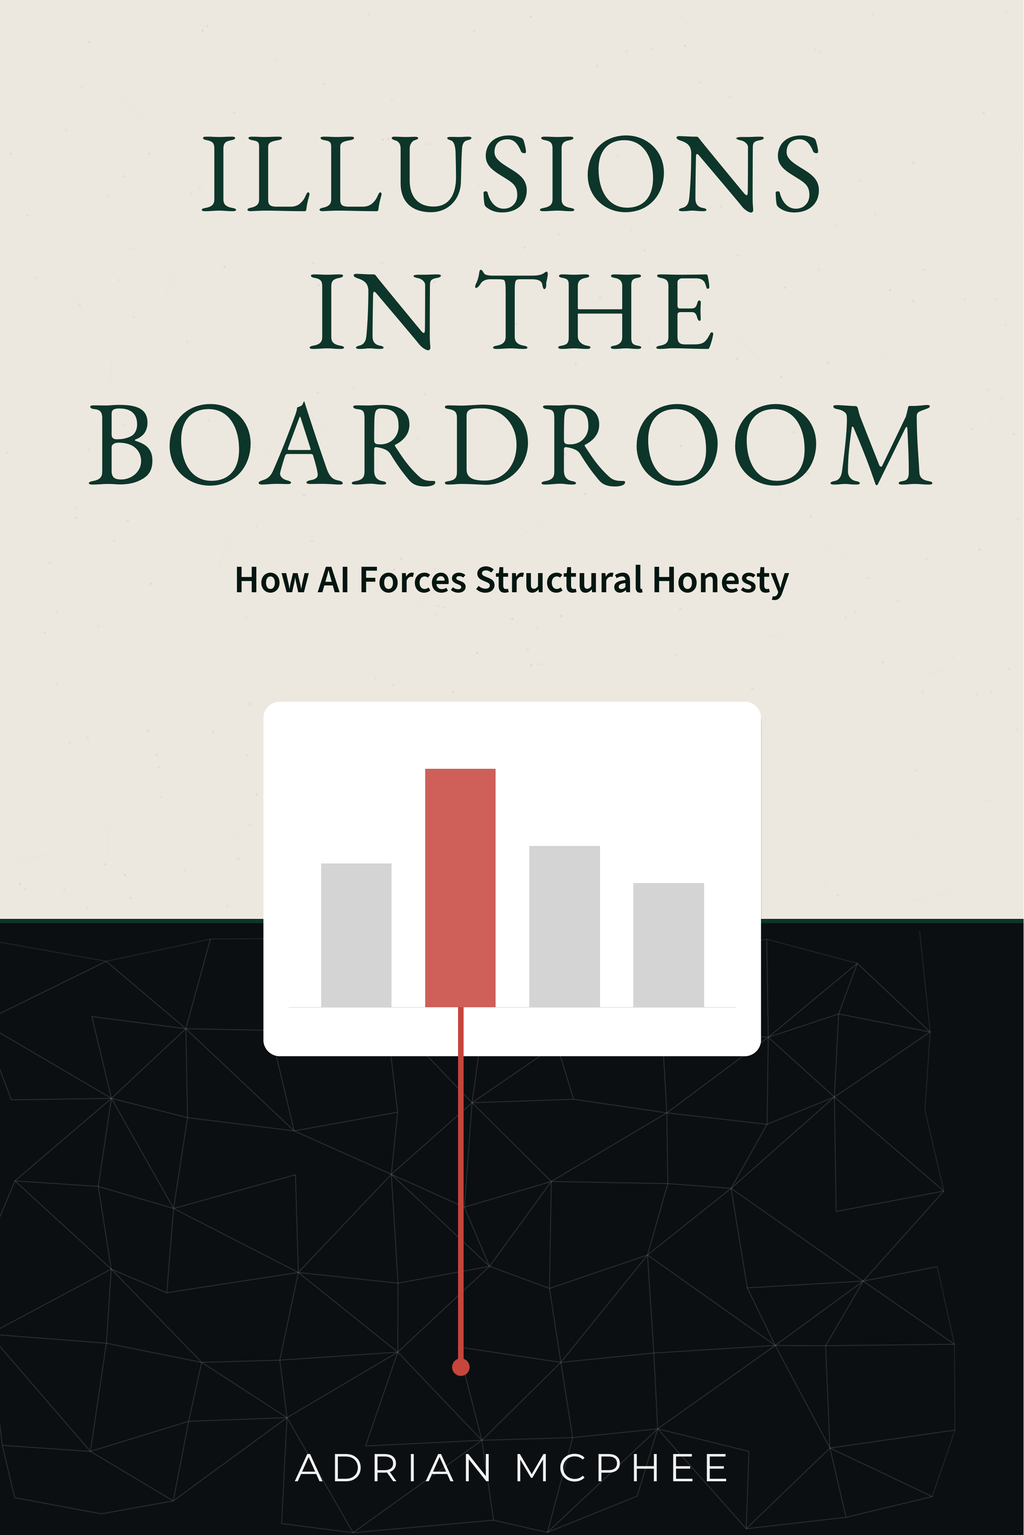
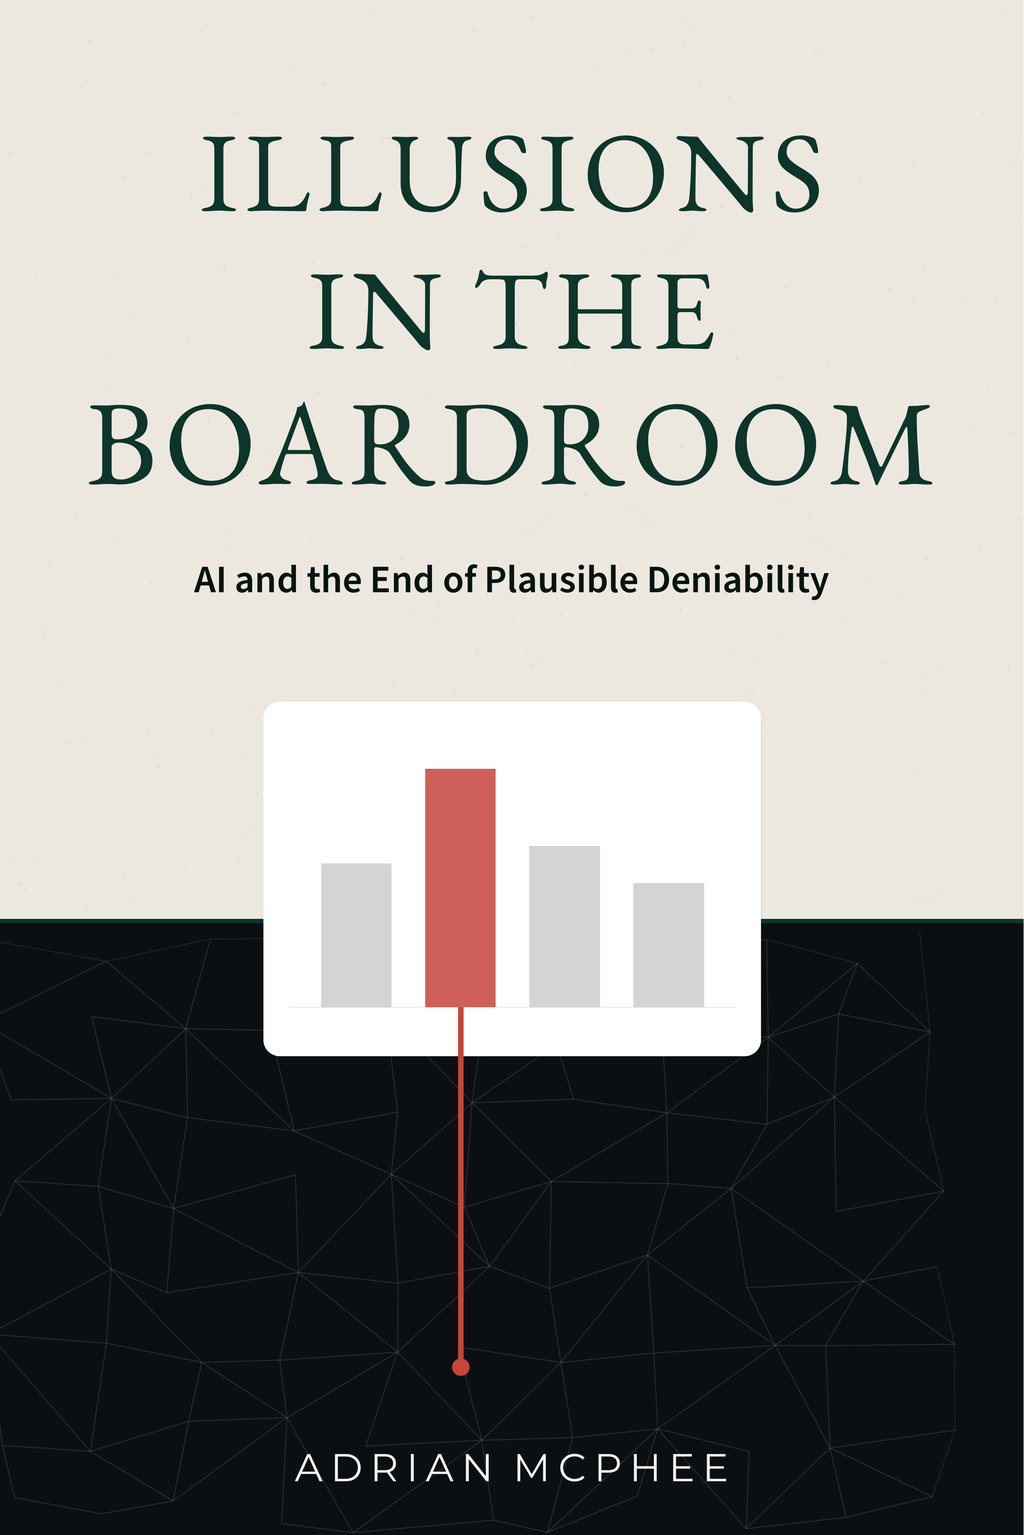
v1.6.11 — 2026-06-01 10:15

Changed region(s): [[0.1875, 0.3674, 0.8125, 0.398]]

diff --git a/illusions-in-the-boardroom/preview.html b/illusions-in-the-boardroom/preview.html
@@ -6,7 +6,7 @@
   <title>Illusions in the Boardroom by Adrian McPhee — Preview</title>
   <meta name="description" content="Browse all chapters of Illusions in the Boardroom. Why boards cannot use AI without structural honesty, and what governance must change. Read free online.">
   <meta name="author" content="Adrian McPhee">
-  <meta name="book-version" content="1.6.10">
+  <meta name="book-version" content="1.6.11">
   <link rel="canonical" href="https://simpleisadvanced.com/illusions-in-the-boardroom/preview.html">
   <link rel="icon" href="/favicon-32x32.png" sizes="32x32" type="image/png">
   <link rel="icon" href="/favicon-192x192.png" sizes="192x192" type="image/png">
@@ -28,7 +28,7 @@
     "@context": "https://schema.org",
     "@type": "Book",
     "name": "Illusions in the Boardroom",
-    "subtitle": "How AI Forces Structural Honesty",
+    "subtitle": "AI and the End of Plausible Deniability",
     "author": {"@type": "Person", "name": "Adrian McPhee", "url": "https://www.linkedin.com/in/adrianmcphee/"},
     "url": "https://simpleisadvanced.com/illusions-in-the-boardroom/",
     "image": "https://simpleisadvanced.com/illusions-in-the-boardroom/og-image.png"
@@ -72,7 +72,7 @@
 <body>
   <a class="book-link" href="/">&larr; Simple is Advanced</a>
   <h1>Illusions in the Boardroom</h1>
-  <p class="subtitle">How AI Forces Structural Honesty</p>
+  <p class="subtitle">AI and the End of Plausible Deniability</p>
   <p class="audience">For executives, board members, and senior leaders</p>
 
   <ol>

diff --git a/illusions-in-the-boardroom/contents.html b/illusions-in-the-boardroom/contents.html
@@ -6,7 +6,7 @@
   <title>Illusions in the Boardroom — Contents</title>
   <meta name="description" content="Full table of contents for Illusions in the Boardroom by Adrian McPhee. How AI forces structural honesty in software-dependent organisations.">
   <meta name="author" content="Adrian McPhee">
-  <meta name="book-version" content="1.6.10">
+  <meta name="book-version" content="1.6.11">
   <link rel="canonical" href="https://simpleisadvanced.com/illusions-in-the-boardroom/contents.html">
   <link rel="icon" href="/favicon-32x32.png" sizes="32x32" type="image/png">
   <link rel="icon" href="/favicon-192x192.png" sizes="192x192" type="image/png">
@@ -28,7 +28,7 @@
     "@context": "https://schema.org",
     "@type": "Book",
     "name": "Illusions in the Boardroom",
-    "subtitle": "How AI Forces Structural Honesty",
+    "subtitle": "AI and the End of Plausible Deniability",
     "author": {"@type": "Person", "name": "Adrian McPhee", "url": "https://www.linkedin.com/in/adrianmcphee/"},
     "url": "https://simpleisadvanced.com/illusions-in-the-boardroom/",
     "image": "https://simpleisadvanced.com/illusions-in-the-boardroom/og-image.png"
@@ -70,7 +70,7 @@
 <body>
   <a class="book-link" href="/">&larr; Simple is Advanced</a>
   <h1>Illusions in the Boardroom</h1>
-  <p class="subtitle">How AI Forces Structural Honesty</p>
+  <p class="subtitle">AI and the End of Plausible Deniability</p>
   <p class="audience">For executives, board members, and senior leaders</p>
 
   <ol>

diff --git a/illusions-in-the-boardroom/chapters/splitting-the-system-without-splitting-the-problem/index.html b/illusions-in-the-boardroom/chapters/splitting-the-system-without-splitting-the-problem/index.html
@@ -6,7 +6,7 @@
   <title>Splitting the System Without Splitting the Problem — Illusions in the Boardroom</title>
   <meta name="description" content="The system was split into independently deployable services, but the business processes were not decomposed into genuinely owned units.">
   <meta name="author" content="Adrian McPhee">
-  <meta name="book-version" content="1.6.10">
+  <meta name="book-version" content="1.6.11">
   <meta name="robots" content="max-snippet:300">
   <link rel="canonical" href="https://simpleisadvanced.com/illusions-in-the-boardroom/chapters/splitting-the-system-without-splitting-the-problem/">
   <link rel="icon" href="/favicon-32x32.png" sizes="32x32" type="image/png">

diff --git a/illusions-in-the-boardroom/chapters/what-to-demand-before-anything-else/index.html b/illusions-in-the-boardroom/chapters/what-to-demand-before-anything-else/index.html
@@ -6,7 +6,7 @@
   <title>What to Demand Before Anything Else — Illusions in the Boardroom</title>
   <meta name="description" content="Six questions a board should ask before any AI investment. Structured as a dramatised interrogation in which an audit committee chair asks each question and...">
   <meta name="author" content="Adrian McPhee">
-  <meta name="book-version" content="1.6.10">
+  <meta name="book-version" content="1.6.11">
   <meta name="robots" content="max-snippet:300">
   <link rel="canonical" href="https://simpleisadvanced.com/illusions-in-the-boardroom/chapters/what-to-demand-before-anything-else/">
   <link rel="icon" href="/favicon-32x32.png" sizes="32x32" type="image/png">

diff --git a/illusions-in-the-boardroom/chapters/the-board-narrative-and-the-system/index.html b/illusions-in-the-boardroom/chapters/the-board-narrative-and-the-system/index.html
@@ -6,7 +6,7 @@
   <title>The Board Narrative and the System — Illusions in the Boardroom</title>
   <meta name="description" content="The board pack presents parallel descriptions of different aspects of the organisation using different measures, none of which connect investment to system...">
   <meta name="author" content="Adrian McPhee">
-  <meta name="book-version" content="1.6.10">
+  <meta name="book-version" content="1.6.11">
   <meta name="robots" content="max-snippet:300">
   <link rel="canonical" href="https://simpleisadvanced.com/illusions-in-the-boardroom/chapters/the-board-narrative-and-the-system/">
   <link rel="icon" href="/favicon-32x32.png" sizes="32x32" type="image/png">

diff --git a/illusions-in-the-boardroom/chapters/the-economics-of-structural-opacity/index.html b/illusions-in-the-boardroom/chapters/the-economics-of-structural-opacity/index.html
@@ -6,7 +6,7 @@
   <title>The Economics of Structural Opacity — Illusions in the Boardroom</title>
   <meta name="description" content="When the financial model cannot see structural investment, a repeating cycle emerges: a platform investment is rejected, its absence produces incidents...">
   <meta name="author" content="Adrian McPhee">
-  <meta name="book-version" content="1.6.10">
+  <meta name="book-version" content="1.6.11">
   <meta name="robots" content="max-snippet:300">
   <link rel="canonical" href="https://simpleisadvanced.com/illusions-in-the-boardroom/chapters/the-economics-of-structural-opacity/">
   <link rel="icon" href="/favicon-32x32.png" sizes="32x32" type="image/png">

diff --git a/illusions-in-the-boardroom/chapters/portfolio-labels-that-do-not-exist-in-code/index.html b/illusions-in-the-boardroom/chapters/portfolio-labels-that-do-not-exist-in-code/index.html
@@ -6,7 +6,7 @@
   <title>Portfolio Labels That Do Not Exist in Code — Illusions in the Boardroom</title>
   <meta name="description" content="“Fake products” carry all the governance artefacts of a real product but have no boundary that corresponds to anything in the system.">
   <meta name="author" content="Adrian McPhee">
-  <meta name="book-version" content="1.6.10">
+  <meta name="book-version" content="1.6.11">
   <meta name="robots" content="max-snippet:300">
   <link rel="canonical" href="https://simpleisadvanced.com/illusions-in-the-boardroom/chapters/portfolio-labels-that-do-not-exist-in-code/">
   <link rel="icon" href="/favicon-32x32.png" sizes="32x32" type="image/png">

diff --git a/illusions-in-the-boardroom/chapters/operational-and-regulatory-exposure/index.html b/illusions-in-the-boardroom/chapters/operational-and-regulatory-exposure/index.html
@@ -6,7 +6,7 @@
   <title>Operational and Regulatory Exposure — Illusions in the Boardroom</title>
   <meta name="description" content="Architectural coupling produces regulatory exposure: a change requiring three days of code takes four months because it propagates across nine teams.">
   <meta name="author" content="Adrian McPhee">
-  <meta name="book-version" content="1.6.10">
+  <meta name="book-version" content="1.6.11">
   <meta name="robots" content="max-snippet:300">
   <link rel="canonical" href="https://simpleisadvanced.com/illusions-in-the-boardroom/chapters/operational-and-regulatory-exposure/">
   <link rel="icon" href="/favicon-32x32.png" sizes="32x32" type="image/png">

diff --git a/illusions-in-the-boardroom/chapters/ai-as-the-unforgiving-reader/index.html b/illusions-in-the-boardroom/chapters/ai-as-the-unforgiving-reader/index.html
@@ -6,7 +6,7 @@
   <title>AI as the Unforgiving Reader — Illusions in the Boardroom</title>
   <meta name="description" content="A CTO commissions an AI reconciliation of strategy documents, architecture models, and code, and receives a calm, precise enumeration of contradictions the...">
   <meta name="author" content="Adrian McPhee">
-  <meta name="book-version" content="1.6.10">
+  <meta name="book-version" content="1.6.11">
   <meta name="robots" content="max-snippet:300">
   <link rel="canonical" href="https://simpleisadvanced.com/illusions-in-the-boardroom/chapters/ai-as-the-unforgiving-reader/">
   <link rel="icon" href="/favicon-32x32.png" sizes="32x32" type="image/png">

diff --git a/illusions-in-the-boardroom/chapters/who-loses-when-clarity-wins/index.html b/illusions-in-the-boardroom/chapters/who-loses-when-clarity-wins/index.html
@@ -6,7 +6,7 @@
   <title>Who Loses When Clarity Wins — Illusions in the Boardroom</title>
   <meta name="description" content="The specific roles whose authority is diminished when structural clarity replaces coordination: programme directors, central data teams, product managers of...">
   <meta name="author" content="Adrian McPhee">
-  <meta name="book-version" content="1.6.10">
+  <meta name="book-version" content="1.6.11">
   <meta name="robots" content="max-snippet:300">
   <link rel="canonical" href="https://simpleisadvanced.com/illusions-in-the-boardroom/chapters/who-loses-when-clarity-wins/">
   <link rel="icon" href="/favicon-32x32.png" sizes="32x32" type="image/png">

diff --git a/illusions-in-the-boardroom/chapters/what-the-sceptical-board-member-asks/index.html b/illusions-in-the-boardroom/chapters/what-the-sceptical-board-member-asks/index.html
@@ -6,7 +6,7 @@
   <title>What the Sceptical Board Member Asks — Illusions in the Boardroom</title>
   <meta name="description" content="Five adversarial objections to the transitional fund renewal, each individually rational, each answered with evidence rather than argument.">
   <meta name="author" content="Adrian McPhee">
-  <meta name="book-version" content="1.6.10">
+  <meta name="book-version" content="1.6.11">
   <meta name="robots" content="max-snippet:300">
   <link rel="canonical" href="https://simpleisadvanced.com/illusions-in-the-boardroom/chapters/what-the-sceptical-board-member-asks/">
   <link rel="icon" href="/favicon-32x32.png" sizes="32x32" type="image/png">

diff --git a/illusions-in-the-boardroom/chapters/when-ai-writes-the-illusion/index.html b/illusions-in-the-boardroom/chapters/when-ai-writes-the-illusion/index.html
@@ -6,7 +6,7 @@
   <title>When AI Writes the Illusion — Illusions in the Boardroom</title>
   <meta name="description" content="AI-as-generator is dangerous not because it produces false output but because it produces plausible output that cannot be internally distinguished from...">
   <meta name="author" content="Adrian McPhee">
-  <meta name="book-version" content="1.6.10">
+  <meta name="book-version" content="1.6.11">
   <meta name="robots" content="max-snippet:300">
   <link rel="canonical" href="https://simpleisadvanced.com/illusions-in-the-boardroom/chapters/when-ai-writes-the-illusion/">
   <link rel="icon" href="/favicon-32x32.png" sizes="32x32" type="image/png">
